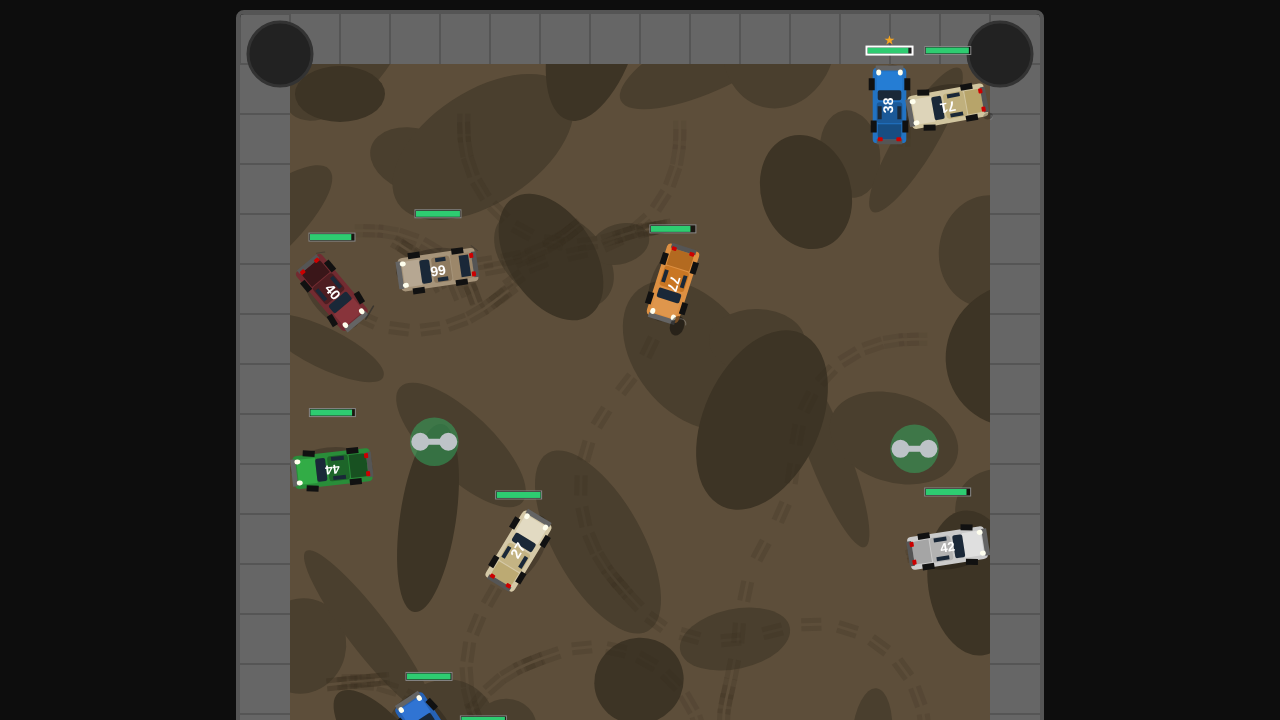
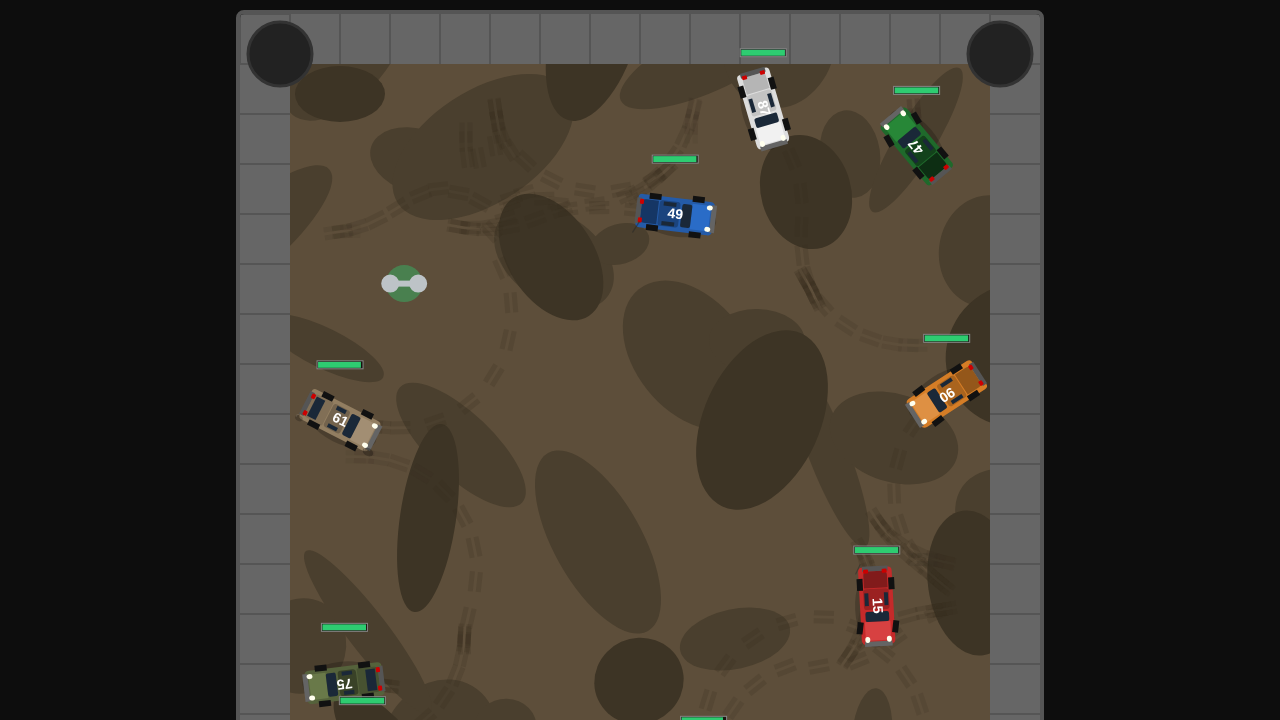
Wall damage hits the zone that struck the wall, not a per-wall zone
Before: top wall always damaged the engine, bottom wall always the rear,
side walls always the sides — so backing into the top wall at speed
damaged the engine. That contradicted the core rear-ram strategy.

Now the deepest point of the car toward the wall decides the zone
(flush door contact averages to a side hit), and damage uses the same
zone multipliers and model strengths as car-to-car hits:
  speed 6, nose-in:   23.7 front (old: 18 front on top wall only)
  speed 6, backing-in: 8.5 rear  (old: 18 front on top wall)
  speed 6, door-on:   14.4 side
Verified on all four walls x nose/rear/side/45° in headless Chromium.

Claude-Session: https://claude.ai/code/session_01F1qBAqfrpyW5PpNBEQ8Mz7

diff --git a/js/physics.js b/js/physics.js
@@ -102,33 +102,36 @@ function updateCarPhysics(car, inputGas, inputReverse, inputLeft, inputRight) {
   const diagonal = Math.sqrt(halfLen * halfLen + halfWid * halfWid);
   const wallMargin = WALL_THICKNESS + diagonal;
 
+  // Each wall clamps the car, then damages whichever zone of the car
+  // actually struck it (backing in hurts the rear, not the engine).
+  // Argument is the wall's outward-facing normal.
   let hitWall = false;
   if (car.x < wallMargin) {
     car.x = wallMargin;
     car.speed *= 0.1;
     car.vx = Math.abs(car.vx) * 0.3;
-    car.sideDamage += absSpeed * 4;
+    applyWallDamage(car, vec(-1, 0), absSpeed);
     hitWall = true;
   }
   if (car.x > ARENA_WIDTH - wallMargin) {
     car.x = ARENA_WIDTH - wallMargin;
     car.speed *= 0.1;
     car.vx = -Math.abs(car.vx) * 0.3;
-    car.sideDamage += absSpeed * 4;
+    applyWallDamage(car, vec(1, 0), absSpeed);
     hitWall = true;
   }
   if (car.y < wallMargin) {
     car.y = wallMargin;
     car.speed *= 0.1;
     car.vy = Math.abs(car.vy) * 0.3;
-    car.frontDamage += absSpeed * 3;
+    applyWallDamage(car, vec(0, -1), absSpeed);
     hitWall = true;
   }
   if (car.y > ARENA_HEIGHT - wallMargin) {
     car.y = ARENA_HEIGHT - wallMargin;
     car.speed *= 0.1;
     car.vy = -Math.abs(car.vy) * 0.3;
-    car.rearDamage += absSpeed * 2.5;
+    applyWallDamage(car, vec(0, 1), absSpeed);
     hitWall = true;
   }
 
@@ -143,4 +146,28 @@ function updateCarPhysics(car, inputGas, inputReverse, inputLeft, inputRight) {
     mudTracks.push({ x: car.x, y: car.y, angle: car.angle, life: 350 });
     car.trackTimer = 10;
   }
+}
+
+// Wall impact: the contact point is the car's deepest point toward the
+// wall. Corners within a few units of that depth are averaged, so a car
+// flush against the wall with its door registers as a side hit and a
+// square nose-in registers as front-center. Zone multipliers and model
+// strengths are the same ones car-to-car hits use.
+const WALL_DAMAGE_PER_SPEED = 3;
+
+function applyWallDamage(car, wallNormal, absSpeed) {
+  const corners = getCarCorners(car);
+  const depths = corners.map(c => vecDot(c, wallNormal));
+  const maxDepth = Math.max(...depths);
+  const touching = corners.filter((c, i) => maxDepth - depths[i] < 4);
+  const contact = vec(
+    touching.reduce((sum, c) => sum + c.x, 0) / touching.length,
+    touching.reduce((sum, c) => sum + c.y, 0) / touching.length
+  );
+
+  const zone = getImpactZone(car, contact);
+  const dmg = absSpeed * WALL_DAMAGE_PER_SPEED * getZoneDamageMultiplier(zone, car.carType);
+  if (zone === 'front') car.frontDamage += dmg;
+  else if (zone === 'rear') car.rearDamage += dmg;
+  else car.sideDamage += dmg;
 }

diff --git a/CLAUDE.md b/CLAUDE.md
@@ -85,6 +85,7 @@ Tuned outside `PHYSICS` (in code, with history comments):
 
 - Post-impact velocity decay: `0.75` per frame (`physics.js`). Was 0.94, then 0.85.
 - Speed-bonus damage: `pow(speed - 2, 1.9) * 5` (`collision.js`). Speed-7 ram ≈ 108 bonus, max-speed ≈ 194.
+- Wall damage: `speed * 3 * zoneMultiplier` (`physics.js`, `WALL_DAMAGE_PER_SPEED`). The zone is the part of the car that hits the wall (front 1.4×, side 0.8×, rear 0.5×, divided by model strength), not which wall was hit.
 
 ## Car roster (v10 first-pass stats — awaiting Joe's tuning)
 
